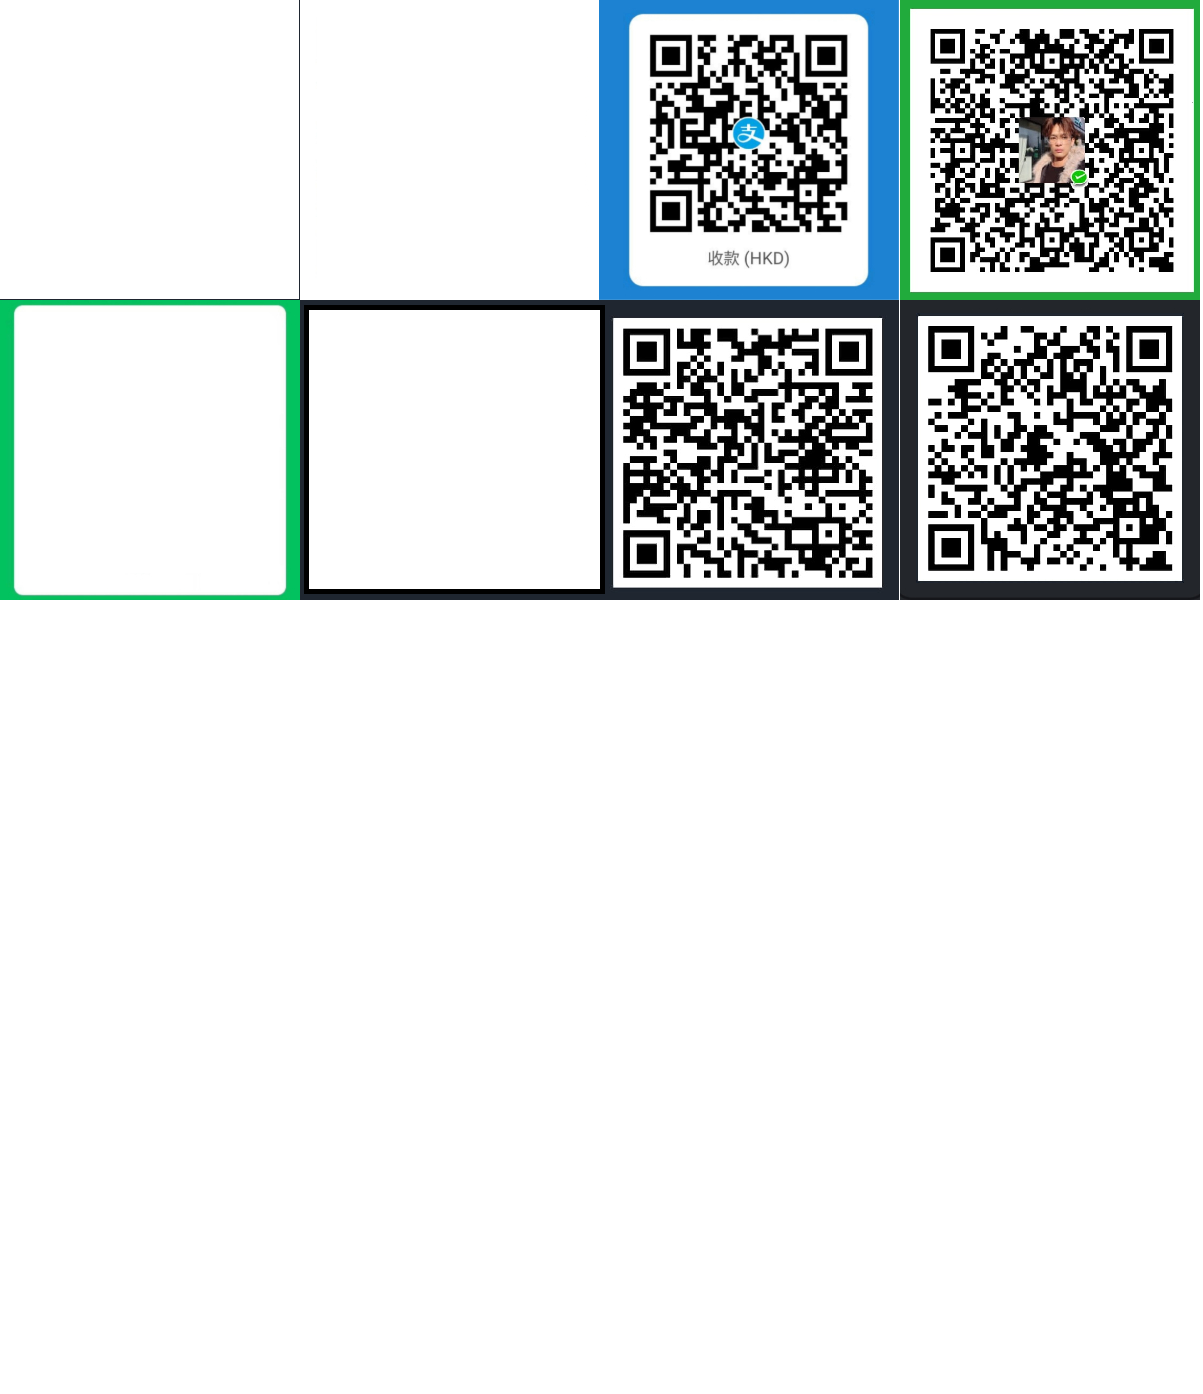
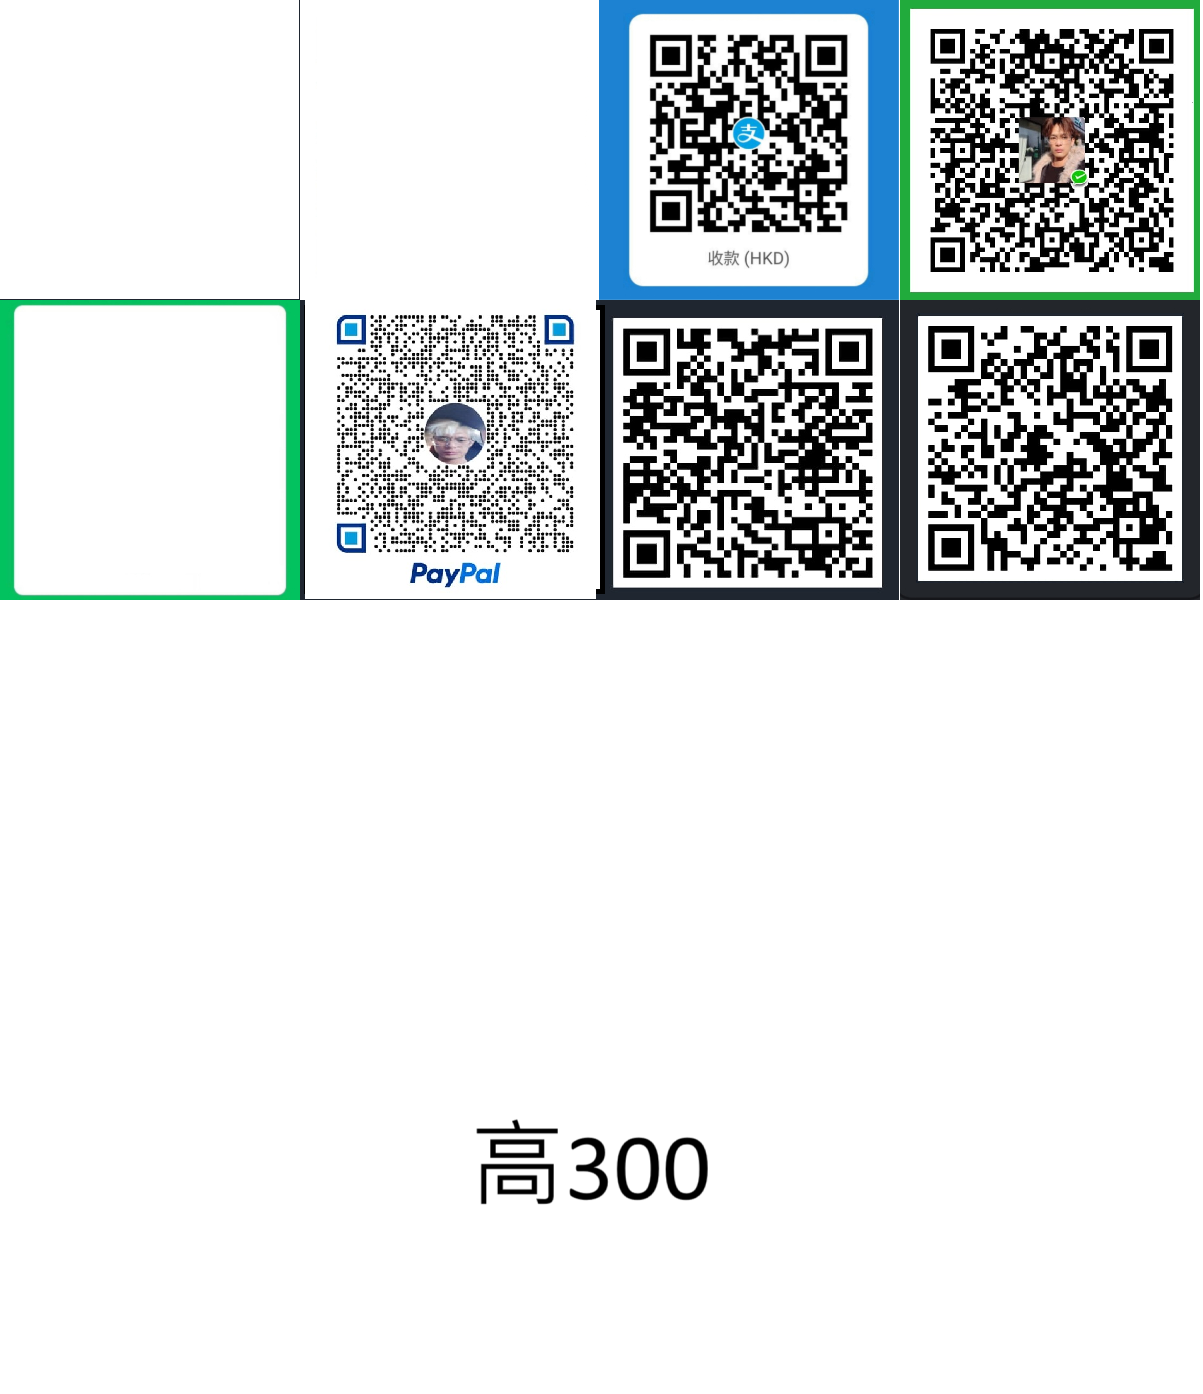
Add files via upload

Changed region(s): [[0.2461, 0.2159, 0.4921, 0.4319], [0.3998, 0.802, 0.5844, 0.8637]]

diff --git a/PayAki/index.html b/PayAki/index.html
@@ -90,7 +90,7 @@
         
                 <!-- WeChat Pay HK -->
                 <div class="payment-option">
-                    <div class='bgimg payment-icon' style='background-position: -520px 40px;' title="AlipayHK" ></div> 
+                    <div class='bgimg payment-icon' style='background-position: -520px 40px;' title="WeChat Pay HK" ></div> 
                     <div class="payment-info">
                         <div class='bgimg info-image' style='background-position: -900px -15px;' title="WeChat Pay HK" ></div> 
                         <p >WeChat Pay HK是WeChat應用程式向用戶提供的一種快捷付款功能，用戶可以通過智能手機快速完成交易付款。</p>
@@ -109,19 +109,19 @@
                 -->
 
 
-                <!-- 
+                <!-- PayPal -->
                 <div class="payment-option">
-                    <div class='bgimg payment-icon' style='background-position: -170px -131px;' title="AlipayHK" ></div> 
+                    <div class='bgimg payment-icon' style='background-position: -170px -131px;' title="PayPal" ></div> 
                     <div class="payment-info">
                         <div class='bgimg info-image' style='background-position: -300px -300px;' title="泰达币（USDT）" ></div> 
-                        <p >泰达币（USDT） 0xf6f4b1076d9e514a8890a8968e939dadc0ef19ad</p>
+                        <p >全球數以百萬名買家使用PayPal 網上購物，只需輸入電郵地址和密碼便可結帳，比掏出銀包更方便。</p>
                     </div>
                 </div>
-                USDT -->
+                
         
                 <!-- Bitcoin -->
                 <div class="payment-option">
-                    <div class='bgimg payment-icon' style='background-position: -350px -131px;' title="AlipayHK" ></div> 
+                    <div class='bgimg payment-icon' style='background-position: -350px -131px;' title="比特幣(Bitcoin)" ></div> 
                     <div class="payment-info">
                         <div class='bgimg info-image' style='background-position: -599px -300px;' title="比特幣(Bitcoin)" ></div> 
                         <p>比特幣(Bitcoin) bc1q0wsqpwd964q4esaxs6phcgkanct07vur5v290w</p>
@@ -130,14 +130,20 @@
                 
                 <!-- Ether -->
                 <div class="payment-option">
-                    <div class='bgimg payment-icon' style='background-position: -535px -131px;' title="AlipayHK" ></div> 
+                    <div class='bgimg payment-icon' style='background-position: -535px -131px;' title="以太幣 (Ether)" ></div> 
                     <div class="payment-info">
                         <div class='bgimg info-image' style='background-position: -900 -300px;' title="以太幣 (Ether)" ></div> 
                         <p >以太幣 (Ether) 0x23887F9c37a7389E3B1b0e12604709D86562b470</p>
                     </div>
                 </div>
                 
+
+                
                 <div id="ContactAKI" class="ContactAKI"><!-- JS _顯示聯莫 --></div>
+
+                <br>
+                <br>
+                <h2>謝謝<br>付款後請將收據及帳號發信給我們</h2>
             </div>
 
 
